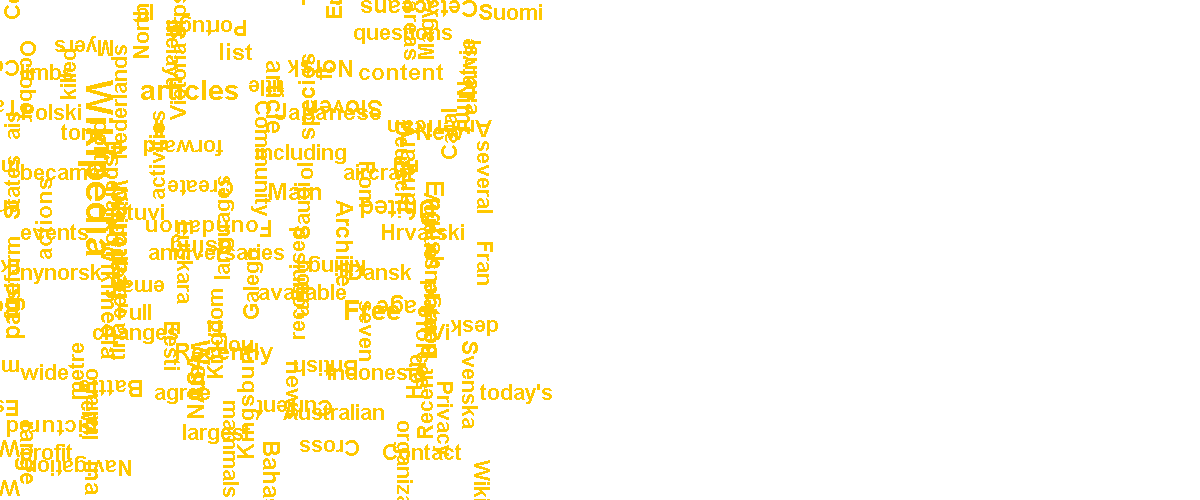
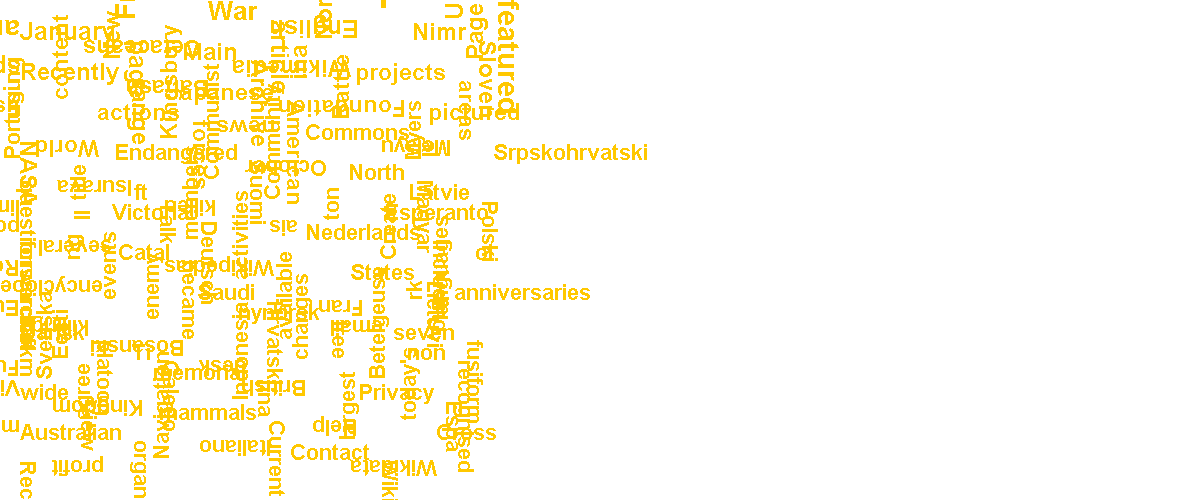
HaspMap Sorted
HaspMap Sorted

Changed region(s): [[0.0, 0.0, 0.555, 1.0]]

diff --git a/WordCloud/src/parse/Runner.java b/WordCloud/src/parse/Runner.java
@@ -3,7 +3,11 @@ package parse;
 import org.jsoup.*;
 
 import java.io.*;
+import java.util.Collections;
+import java.util.Comparator;
 import java.util.HashMap;
+import java.util.LinkedHashMap;
+import java.util.LinkedList;
 import java.util.Map;
 import java.util.Map.Entry;
 
@@ -109,6 +113,39 @@ public class Runner
 		//System.out.println(map);
 	}
 	
+	private static Map<String, Integer> sortByComparator(Map<String, Integer> unsortMap, final boolean order)
+    {
+
+		LinkedList<Entry<String, Integer>> list = new LinkedList<Entry<String, Integer>>(unsortMap.entrySet());
+
+        // Sorting the list based on values
+        Collections.sort(list, new Comparator<Entry<String, Integer>>()
+        {
+            public int compare(Entry<String, Integer> o1,
+                    Entry<String, Integer> o2)
+            {
+                if (order)
+                {
+                    return o1.getValue().compareTo(o2.getValue());
+                }
+                else
+                {
+                    return o2.getValue().compareTo(o1.getValue());
+
+                }
+            }
+        });
+
+        // Maintaining insertion order with the help of LinkedList
+        Map<String, Integer> sortedMap = new LinkedHashMap<String, Integer>();
+        for (Entry<String, Integer> entry : list)
+        {
+            sortedMap.put(entry.getKey(), entry.getValue());
+        }
+
+        return sortedMap;
+    }
+	
 	
 	
 	
@@ -119,28 +156,30 @@ public class Runner
 	public static void main(String[] args) throws IOException 
  	{
 		
-	//Map<String, Integer> parsedWord = new HashMap<String, Integer>(); 
+	Map<String, Integer> sortedMap = new HashMap<String, Integer>(); 
 	
 	
 		String parsedString;
-		Runner wrdle = new Runner();
-		parsedString = wrdle.Parser();
+		Runner wordle = new Runner();
+		parsedString = wordle.Parser();
 		//System.out.println(parsedString);
 		System.out.println("=================");
 		////////////////////////////////////////////////
 		
 		try 
 		{
-			wrdle.maping();
+			wordle.maping();
 		} 
 		catch (Exception e) 
 		{
 			e.printStackTrace();
 		}
 		/////////////////////////////////////////////////
-		wrdle.cleaning(parsedString);
+		wordle.cleaning(parsedString);
 		//clean.cleaning();
 		/////////////////////////////////////////////////
+		sortedMap = sortByComparator(map,false);
+		System.out.println(sortedMap);
 		 
 		 BufferedImage image = new BufferedImage(1200, 500, BufferedImage.TYPE_4BYTE_ABGR);
 		
@@ -154,7 +193,7 @@ public class Runner
 		 int widtX = 0;
 		 int anngle = 0;
 		 
-		 for (Entry<String, Integer> entry : map.entrySet()) 
+		 for (Entry<String, Integer> entry : sortedMap.entrySet()) 
 		 {
 			 
 			    String key = entry.getKey();
@@ -173,7 +212,7 @@ public class Runner
 			    	
 			    	
 			    	FontMetrics metrics = graphics.getFontMetrics(font);
-			    	System.out.println(metrics.getHeight() + " " + metrics.stringWidth(key));
+			    	//System.out.println(metrics.getHeight() + " " + metrics.stringWidth(key));
 			    	metrics.getLeading();
 			    	//metrics.getHeight();
 			    	//metrics.stringWidth(str)
